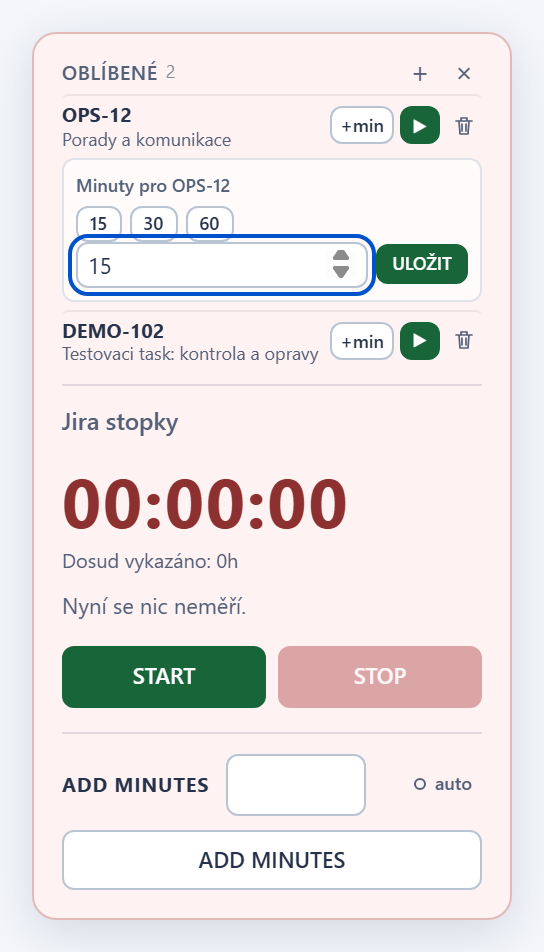
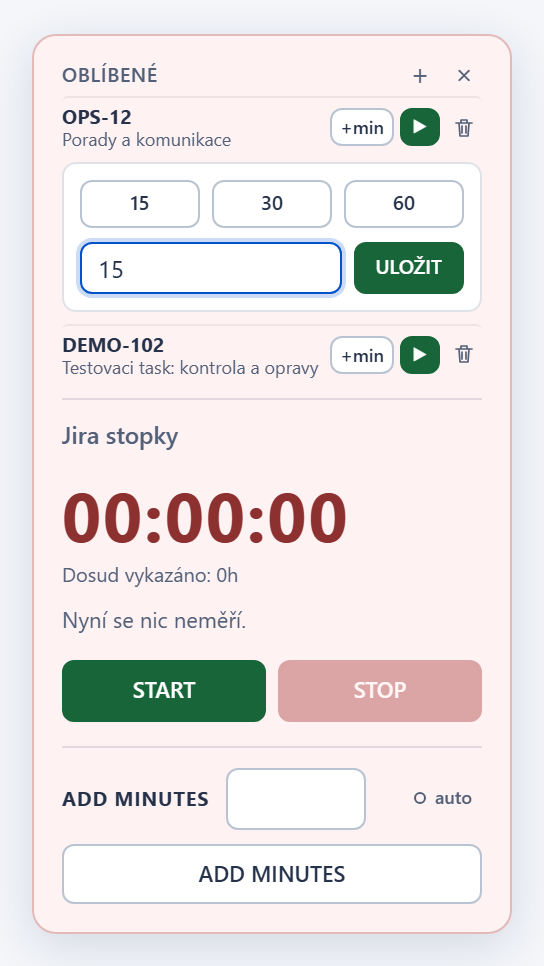
fix: favorites search and +min editor polish (1.18.3) (#32)
Remove the count from the favorites heading, float search results under the
field so typing no longer moves it, add an x that closes only the search,
and give the +min editor clearer padding and layout.

diff --git a/jira-workspace-timer.user.js b/jira-workspace-timer.user.js
@@ -1,7 +1,7 @@
 // ==UserScript==
 // @name         Jira Local Workspace - Worklog timer
 // @namespace    alza.jira-direct-timer
-// @version      1.18.2
+// @version      1.18.3
 // @updateURL    https://raw.githubusercontent.com/bunnydad02/jira-direct-timer/main/jira-workspace-timer.user.js
 // @downloadURL  https://raw.githubusercontent.com/bunnydad02/jira-direct-timer/main/jira-workspace-timer.user.js
 // @description  Persistent stopwatch that saves directly to Jira and hides the legacy Clockify panel.
@@ -19,7 +19,7 @@
     const FAVORITES_KEY = 'jira-direct-timer-favorites-v1';
     const FAVORITES_LIMIT = 10;
     const ISSUE_PATTERN = /^[A-Z][A-Z0-9_]*-\d+$/;
-    const VERSION = '1.18.2';
+    const VERSION = '1.18.3';
     const panel = document.createElement('section');
     panel.id = 'jira-direct-timer';
     const styles = document.createElement('style');
@@ -40,8 +40,7 @@
         #jira-direct-timer [data-favorites][data-closing] {grid-template-rows:0fr;opacity:0;margin-bottom:0;padding-bottom:0;border-bottom-color:transparent}
         #jira-direct-timer [data-favorites][data-closing] [data-fav-body] {overflow:hidden}
         #jira-direct-timer [data-fav-header] {display:flex;align-items:center;gap:4px;min-height:18px;margin-bottom:2px}
-        #jira-direct-timer [data-fav-heading] {color:#526078;font-size:10px;font-weight:600;letter-spacing:.3px;text-transform:uppercase}
-        #jira-direct-timer [data-fav-total] {flex:1;color:#526078;font-size:9px;opacity:.7}
+        #jira-direct-timer [data-fav-heading] {flex:1;color:#526078;font-size:10px;font-weight:600;letter-spacing:.3px;text-transform:uppercase}
         #jira-direct-timer [data-fav-header] button,#jira-direct-timer [data-fav-remove] {display:inline-flex;flex-shrink:0;width:18px;height:18px;align-items:center;justify-content:center;padding:0;border:0;background:transparent;color:#526078;font-size:14px;font-weight:400;line-height:1}
         #jira-direct-timer [data-fav-row] {display:flex;align-items:center;gap:3px;padding:3px 0;border-top:1px solid #172b4d12;border-radius:3px;transition:background-color .6s ease}
         #jira-direct-timer [data-fav-row][data-fresh] {background:#e3f4e8}
@@ -56,15 +55,19 @@
         #jira-direct-timer [data-fav-start] {background:#176538;border-color:#176538}
         #jira-direct-timer [data-fav-stop] {background:#a73434;border-color:#a73434}
         #jira-direct-timer [data-fav-remove] svg {width:12px;height:12px;fill:none;stroke:currentColor;stroke-width:1.7;stroke-linecap:round;stroke-linejoin:round}
-        #jira-direct-timer [data-fav-editor] {margin:1px 0 4px;padding:6px;border:1px solid #dfe3e8;border-radius:6px;background:#ffffffb0}
-        #jira-direct-timer [data-fav-editor-label] {display:block;margin-bottom:4px;color:#526078;font-size:9px;font-weight:600}
-        #jira-direct-timer [data-fav-editor-row] {display:flex;align-items:center;gap:4px}
-        #jira-direct-timer [data-fav-quick] {padding:2px 6px;font-size:9px}
-        #jira-direct-timer [data-fav-minutes-input] {flex:1;width:auto;padding:3px 5px;font-size:11px}
-        #jira-direct-timer [data-fav-minutes-save] {padding:3px 7px;border-color:#176538;background:#176538;color:#fff;font-size:9px}
-        #jira-direct-timer [data-fav-search] {display:block;width:100%;margin-top:2px;padding:4px 6px;border-color:#4c8be0;font-size:11px}
+        #jira-direct-timer [data-fav-editor] {display:grid;grid-template-columns:minmax(0,1fr);gap:7px;margin:2px 0 6px;padding:8px;border:1px solid #dfe3e8;border-radius:7px;background:#fff}
+        #jira-direct-timer [data-fav-editor-row] {display:flex;align-items:center;gap:6px}
+        #jira-direct-timer [data-fav-quick] {flex:1;height:24px;padding:0 6px;font-size:10px}
+        #jira-direct-timer [data-fav-minutes-input] {flex:1;width:0;height:26px;padding:0 8px;font-size:12px;-moz-appearance:textfield}
+        #jira-direct-timer [data-fav-minutes-input]::-webkit-inner-spin-button,#jira-direct-timer [data-fav-minutes-input]::-webkit-outer-spin-button {margin:0;-webkit-appearance:none}
+        #jira-direct-timer [data-fav-minutes-save] {height:26px;padding:0 10px;border-color:#176538;background:#176538;color:#fff;font-size:10px}
+        #jira-direct-timer [data-fav-body] input:focus-visible {outline:0;border-color:#0052cc;box-shadow:0 0 0 2px #0052cc33}
+        #jira-direct-timer [data-fav-search-wrap] {position:relative;margin-top:2px}
+        #jira-direct-timer [data-fav-search] {display:block;width:100%;height:26px;padding:0 24px 0 7px;border-color:#4c8be0;font-size:11px}
         #jira-direct-timer [data-fav-search]:disabled {border-color:#b9c4d2;background:#f4f5f7;cursor:not-allowed}
-        #jira-direct-timer [data-fav-results] {margin-top:4px;overflow:hidden;border:1px solid #dfe3e8;border-radius:5px;background:#fff}
+        #jira-direct-timer [data-fav-search-close] {position:absolute;top:4px;right:4px;display:inline-flex;width:18px;height:18px;align-items:center;justify-content:center;padding:0;border:0;border-radius:50%;background:transparent;color:#526078;font-size:13px;font-weight:400;line-height:1}
+        #jira-direct-timer [data-fav-search-close]:not(:disabled):hover {background:#172b4d14;filter:none}
+        #jira-direct-timer [data-fav-results] {position:absolute;top:calc(100% + 3px);left:0;right:0;z-index:3;max-height:200px;overflow:auto;border:1px solid #dfe3e8;border-radius:6px;background:#fff;box-shadow:0 6px 18px #172b4d2e}
         #jira-direct-timer [data-fav-result] {display:flex;align-items:center;gap:4px;padding:3px 4px 3px 6px;font-size:9px;line-height:1.35}
         #jira-direct-timer [data-fav-result] + [data-fav-result] {border-top:1px solid #172b4d10}
         #jira-direct-timer [data-fav-result] a {display:flex;flex:1;min-width:0;gap:4px;color:#253249;text-decoration:none}
@@ -74,7 +77,9 @@
         #jira-direct-timer [data-fav-result] i {color:#8993a4;font-size:8px;font-style:normal}
         #jira-direct-timer [data-fav-pin] {flex-shrink:0;width:18px;height:17px;padding:0;border-color:#176538;color:#176538;font-size:12px;line-height:1}
         #jira-direct-timer [data-fav-saved] {flex-shrink:0;color:#526078;font-size:8px;font-style:normal}
-        #jira-direct-timer [data-fav-message] {padding:3px 6px;color:#526078;font-size:9px}
+        #jira-direct-timer [data-fav-message] {padding:5px 7px;color:#526078;font-size:9px}
+        #jira-direct-timer [data-fav-message][data-state="error"] {color:#ae2a19;white-space:pre-wrap;overflow-wrap:anywhere}
+        #jira-direct-timer [data-fav-limit] {margin-top:4px;color:#ae2a19;font-size:9px;line-height:1.35}
         #jira-direct-timer [data-fav-empty] {padding:3px 0;color:#526078;font-size:9px}
         #jira-direct-timer [data-fav-error] {color:#ae2a19;font-size:9px;white-space:pre-wrap;overflow-wrap:anywhere}
         #jira-direct-timer [data-fav-error]:not(:empty) {margin-top:4px}
@@ -147,7 +152,7 @@
         }
     `;
     document.body.appendChild(styles);
-    panel.innerHTML = '<div data-favorites hidden><div data-fav-body><div data-fav-header><span data-fav-heading></span><span data-fav-total></span><button data-fav-add>+</button><button data-fav-close></button></div><input data-fav-search type="text" autocomplete="off" hidden><div data-fav-results hidden></div><div data-fav-list></div><div data-fav-error role="alert"></div></div></div><div data-header><strong>Jira stopky</strong><button data-fav-open><span data-fav-label></span><b data-fav-count></b></button><span data-version-wrap><a data-version></a></span></div><a data-measuring hidden></a><a data-issue></a><a data-title></a><time data-clock>00:00:00</time><div data-worklog-total hidden role="status" aria-live="polite"></div><div data-status></div><div data-actions><button data-start>START</button><button data-stop>STOP</button></div><div data-save-row><button data-save>Ulozit do Jira worklogu</button></div><div data-error role="alert"></div>';
+    panel.innerHTML = '<div data-favorites hidden><div data-fav-body><div data-fav-header><span data-fav-heading></span><button data-fav-add>+</button><button data-fav-close></button></div><div data-fav-search-wrap hidden><input data-fav-search type="text" autocomplete="off"><button data-fav-search-close></button><div data-fav-results hidden></div></div><div data-fav-limit hidden role="status"></div><div data-fav-list></div><div data-fav-error role="alert"></div></div></div><div data-header><strong>Jira stopky</strong><button data-fav-open><span data-fav-label></span><b data-fav-count></b></button><span data-version-wrap><a data-version></a></span></div><a data-measuring hidden></a><a data-issue></a><a data-title></a><time data-clock>00:00:00</time><div data-worklog-total hidden role="status" aria-live="polite"></div><div data-status></div><div data-actions><button data-start>START</button><button data-stop>STOP</button></div><div data-save-row><button data-save>Ulozit do Jira worklogu</button></div><div data-error role="alert"></div>';
     const versionLink = panel.querySelector('[data-version]');
     versionLink.textContent = `v${VERSION}`;
     versionLink.setAttribute('href', 'https://github.com/bunnydad02/jira-direct-timer');
@@ -200,11 +205,13 @@
     const favoritesSection = panel.querySelector('[data-favorites]');
     const favOpen = panel.querySelector('[data-fav-open]');
     const favCount = panel.querySelector('[data-fav-count]');
-    const favTotal = panel.querySelector('[data-fav-total]');
     const favAdd = panel.querySelector('[data-fav-add]');
     const favClose = panel.querySelector('[data-fav-close]');
+    const favSearchWrap = panel.querySelector('[data-fav-search-wrap]');
     const favSearch = panel.querySelector('[data-fav-search]');
+    const favSearchClose = panel.querySelector('[data-fav-search-close]');
     const favResults = panel.querySelector('[data-fav-results]');
+    const favLimit = panel.querySelector('[data-fav-limit]');
     const favList = panel.querySelector('[data-fav-list]');
     const favError = panel.querySelector('[data-fav-error]');
     panel.querySelector('[data-fav-label]').textContent = 'obl\u00edben\u00e9';
@@ -216,6 +223,9 @@
     favClose.setAttribute('title', 'Zav\u0159\u00edt obl\u00edben\u00e9');
     favSearch.setAttribute('placeholder', 'Hledat task: kl\u00ed\u010d nebo n\u00e1zev');
     favSearch.setAttribute('aria-label', 'Hledat task pro obl\u00edben\u00e9');
+    favSearchClose.textContent = '\u00d7';
+    favSearchClose.setAttribute('aria-label', 'Zav\u0159\u00edt hled\u00e1n\u00ed');
+    favSearchClose.setAttribute('title', 'Zav\u0159\u00edt hled\u00e1n\u00ed');
     let favoritesOpen = false;
     let favoritesClosing = false;
     let favoritesSignature = '';
@@ -876,13 +886,13 @@
     }
     function favoriteEditor(key) {
         const editor = favoriteNode('div', 'favEditor');
-        editor.appendChild(favoriteNode('span', 'favEditorLabel', `Minuty pro ${key}`));
         const quick = favoriteNode('div', 'favEditorRow');
         const input = favoriteNode('input', 'favMinutesInput');
         input.type = 'number';
         input.min = '1';
         input.step = '1';
         input.value = favEditValue;
+        input.placeholder = 'minuty';
         input.setAttribute('aria-label', `Minuty pro ${key}`);
         input.oninput = () => {
             favEditValue = input.value;
@@ -995,17 +1005,17 @@
         updateAttr(favOpen, 'title', storageError ? 'Seznam obl\u00edben\u00fdch je po\u0161kozen\u00fd' : 'Obl\u00edben\u00e9 tasky');
         updateAttr(favOpen, 'aria-expanded', String(favoritesOpen));
         update(favoritesSection, 'hidden', !favoritesOpen);
-        update(favTotal, 'textContent', storageError ? '' : String(list.length));
         update(favAdd, 'hidden', favSearchOpen);
         update(favAdd, 'disabled', !!storageError || favoritesClosing);
         const full = !storageError && list.length >= FAVORITES_LIMIT;
         const limitText = `M\u00e1\u0161 maximum ${FAVORITES_LIMIT} obl\u00edben\u00fdch. Dal\u0161\u00ed task p\u0159id\u00e1\u0161, a\u017e n\u011bkter\u00fd odebere\u0161 (ikona ko\u0161e).`;
-        update(favSearch, 'hidden', !favSearchOpen);
+        update(favSearchWrap, 'hidden', !favSearchOpen);
         update(favSearch, 'disabled', full);
         updateAttr(favSearch, 'placeholder', full ? `Limit ${FAVORITES_LIMIT} obl\u00edben\u00fdch je pln\u00fd` : 'Hledat task: kl\u00ed\u010d nebo n\u00e1zev');
         updateAttr(favAdd, 'title', full ? limitText : 'P\u0159idat task do obl\u00edben\u00fdch');
-        update(favList, 'hidden', favSearchOpen);
-        update(favError, 'textContent', [storageError, full && favSearchOpen ? limitText : favMessage].filter(Boolean).join('\n'));
+        update(favLimit, 'hidden', !(full && favSearchOpen));
+        update(favLimit, 'textContent', full ? limitText : '');
+        update(favError, 'textContent', [storageError, favSearchState === 'error' ? '' : favMessage].filter(Boolean).join('\n'));
         if (!favoritesOpen) {
             favoritesSignature = '';
             return;
@@ -1030,7 +1040,7 @@
             minutesDisabled: blocked || !!(value && value.phase === 'pending')
         }));
         const saved = new Set(list.map(favorite => favorite.issue));
-        const signature = JSON.stringify([items, storageError, favSearchOpen, favSearchState, favSearchItems, favEditKey, busy, full]);
+        const signature = JSON.stringify([items, storageError, favSearchOpen, favSearchState, favSearchItems, favMessage, favEditKey, busy, full]);
         if (signature === favoritesSignature) return;
         favoritesSignature = signature;
         const rows = [];
@@ -1049,11 +1059,13 @@
         favList.replaceChildren(...rows);
         if (editorInput && favFocusEditor) editorInput.focus();
         favFocusEditor = false;
-        const results = favSearchState === 'loading' ? [favoriteNode('div', 'favMessage', 'Hled\u00e1m\u2026')] :
+        const searchError = favoriteNode('div', 'favMessage', favMessage);
+        searchError.dataset.state = 'error';
+        const results = favSearchState === 'error' ? [searchError] : favSearchState === 'loading' ? [favoriteNode('div', 'favMessage', 'Hled\u00e1m\u2026')] :
             favSearchState === 'done' && !favSearchItems.length ? [favoriteNode('div', 'favMessage', 'Nic nenalezeno.')] :
                 favSearchItems.map(item => favoriteResult(item, saved.has(item.issue), full));
         favResults.replaceChildren(...results);
-        favResults.hidden = !favSearchOpen || favSearchState === 'idle' || favSearchState === 'error';
+        favResults.hidden = !favSearchOpen || favSearchState === 'idle';
     }
     favOpen.onclick = openFavorites;
     favClose.onclick = () => {
@@ -1078,13 +1090,17 @@
         if (query.length >= 2) favSearchTimer = setTimeout(() => searchFavoriteIssues(query, sequence), 250);
         render();
     };
-    favSearch.onkeydown = event => {
-        if (event.key !== 'Escape') return;
-        event.preventDefault();
+    function dismissFavoriteSearch() {
         closeFavoriteSearch();
         favMessage = '';
         render();
         favAdd.focus();
+    }
+    favSearchClose.onclick = dismissFavoriteSearch;
+    favSearch.onkeydown = event => {
+        if (event.key !== 'Escape') return;
+        event.preventDefault();
+        dismissFavoriteSearch();
     };
 
     function openAutoSettings() {

diff --git a/tests/scenarios.js b/tests/scenarios.js
@@ -595,9 +595,15 @@
             await p.click('fav-add');
             const search = p.node('fav-search');
             equal(document.activeElement, search, 'search focused');
+            const searchTop = search.getBoundingClientRect().top;
+            const panelTop = p.node('header').closest('section').getBoundingClientRect().top;
+            search.value = 'r';
+            search.dispatchEvent(new Event('input'));
             search.value = 'review';
             search.dispatchEvent(new Event('input'));
             await waitFor(() => p.node('fav-results').querySelectorAll('[data-fav-issue]').length === 2);
+            equal([search.getBoundingClientRect().top, p.node('header').closest('section').getBoundingClientRect().top], [searchTop, panelTop], 'results float without moving the search or panel');
+            equal(p.node('fav-list').hidden, false);
             const link = p.node('fav-issue="OPS-140"').querySelector('a');
             equal([link.target, link.rel, link.href], ['_blank', 'noopener noreferrer', 'https://jira.alza.cz/browse/OPS-140']);
             link.click();
@@ -606,9 +612,14 @@
             equal(p.favorites().length, 1, 'opening a result does not save it');
             p.node('fav-issue="OPS-140"').querySelector('[data-fav-pin]').click();
             equal(p.favorites().map(value => value.issue), ['OPS-12', 'OPS-140']);
-            equal([search.hidden, search.value, p.node('fav-results').hidden], [true, '', true]);
+            equal([p.node('fav-search-wrap').hidden, search.value, p.node('fav-results').hidden], [true, '', true]);
             const added = p.node('fav-list').querySelector('[data-fav-issue="OPS-140"]');
             if (!added.hasAttribute('data-fresh')) throw new Error('New favorite must be highlighted');
+            await p.click('fav-add');
+            search.value = 'xx';
+            search.dispatchEvent(new Event('input'));
+            await p.click('fav-search-close');
+            equal([p.node('fav-search-wrap').hidden, search.value, p.node('favorites').hidden], [true, '', false], 'search cross closes only the search');
             added.querySelector('[data-fav-remove]').click();
             equal(p.favorites().map(value => value.issue), ['OPS-12']);
             equal(p.posts().length, 0);
@@ -645,7 +656,8 @@
             await p.click('fav-open');
             await p.click('fav-add');
             equal(p.node('fav-search').disabled, true);
-            includes(p.node('fav-error').textContent, 'maximum 10');
+            includes(p.node('fav-limit').textContent, 'maximum 10');
+            equal(p.node('fav-limit').hidden, false);
             await p.reset({favorites: '{broken'});
             equal(p.node('fav-count').textContent, '!');
             await p.click('fav-open');

diff --git a/HANDOFF.md b/HANDOFF.md
@@ -82,7 +82,11 @@ for compatibility with installed copies and saved timer state.
   search via `/rest/api/2/issue/picker` (>= 2 chars, 250ms debounce, stale
   responses dropped, response shape verified only against mocks). Result
   names open `/browse/<KEY>` in a new tab and store nothing; only the result's
-  `+` stores it and clears the search. Limit is 10: when full, the search
+  `+` stores it and clears the search. Results float as an absolute dropdown
+  over the list (the panel is bottom-anchored, so inline results would move
+  the search field); the list stays visible. Search errors render inside the
+  dropdown and the limit note sits directly under the field. The search field's own × closes
+  only the search (as does Escape). Limit is 10: when full, the search
   input is disabled with a visible explanation and `addFavorite` still throws.
 - Save/discard confirmations are transient, separate toasts. Saved toasts show
   recorded duration; discarded toasts show measured duration. Do not replay
@@ -175,7 +179,7 @@ must exist. Publishing rewrites these links to the release tag
 (`raw.githubusercontent.com/<owner>/<repo>/v<version>/...`), so each Release
 permanently shows that version's look.
 
-The current userscript metadata and in-panel version are `1.18.2`. On each
+The current userscript metadata and in-panel version are `1.18.3`. On each
 release, keep `@version` and `VERSION` synchronized and retain both GitHub
 update URLs. Tampermonkey updates only after a higher version is published to
 the public `main` branch; a local commit alone does not publish an update.

diff --git a/releases/v1.18.3.md b/releases/v1.18.3.md
@@ -1,0 +1,34 @@
+# Jira Local Workspace - Worklog timer v1.18.3
+
+## Changes
+
+- Oblibene: z nadpisu sekce zmizel pocet tasku (pocet zustava jen na
+  stitku `oblibene N`).
+- Hledani uz neposkakuje: vysledky se zobrazuji jako plovouci nabidka pod
+  polem pres seznam a stopky, takze se pole ani panel pri psani nehybou.
+  Seznam oblibenych zustava pod nabidkou na svem miste.
+- Pole hledani ma vlastni krizek, ktery zavre jen hledani (Oblibene zustanou
+  otevrene); stejne funguje Escape.
+- Editor `+min` je prehlednejsi: rychle volby 15/30/60 ve stejne sirokych
+  tlacitkach, pod nimi pole a ULOZIT ve stejne vysce, bez sipek a bez
+  zdvojeneho popisku, s vetsimi odsazenimi a jemnejsim zvyraznenim fokusu.
+
+## Screenshots
+
+![Hledani: plovouci vysledky a krizek v poli](../docs/screenshots/favorites-search.png)
+![Editor +min](../docs/screenshots/favorites-minutes.png)
+![Otevrene oblibene bez poctu v nadpisu](../docs/screenshots/favorites-open.png)
+
+## Installation / update
+
+Tampermonkey nacita aktualizace z vetve `main`. Po aktualizaci na 1.18.3
+obnov stranku Jiry. Neinstaluj druhou kopii skriptu a nemaz data webu;
+stav mereni, nastaveni AUTO i oblibene zustavaji zachovany.
+
+## Verification
+
+`npm test`: uspesne kontroly syntaxe, Node regrese, kontroly vydani,
+bezpecnostni audit, vsechny Chromium regrese s lokalnimi mocky a
+regenerace screenshotu. Nove testy overuji, ze se pole hledani ani panel
+pri zobrazeni vysledku neposunou, ze seznam zustava viditelny a ze krizek
+v poli zavre jen hledani.
